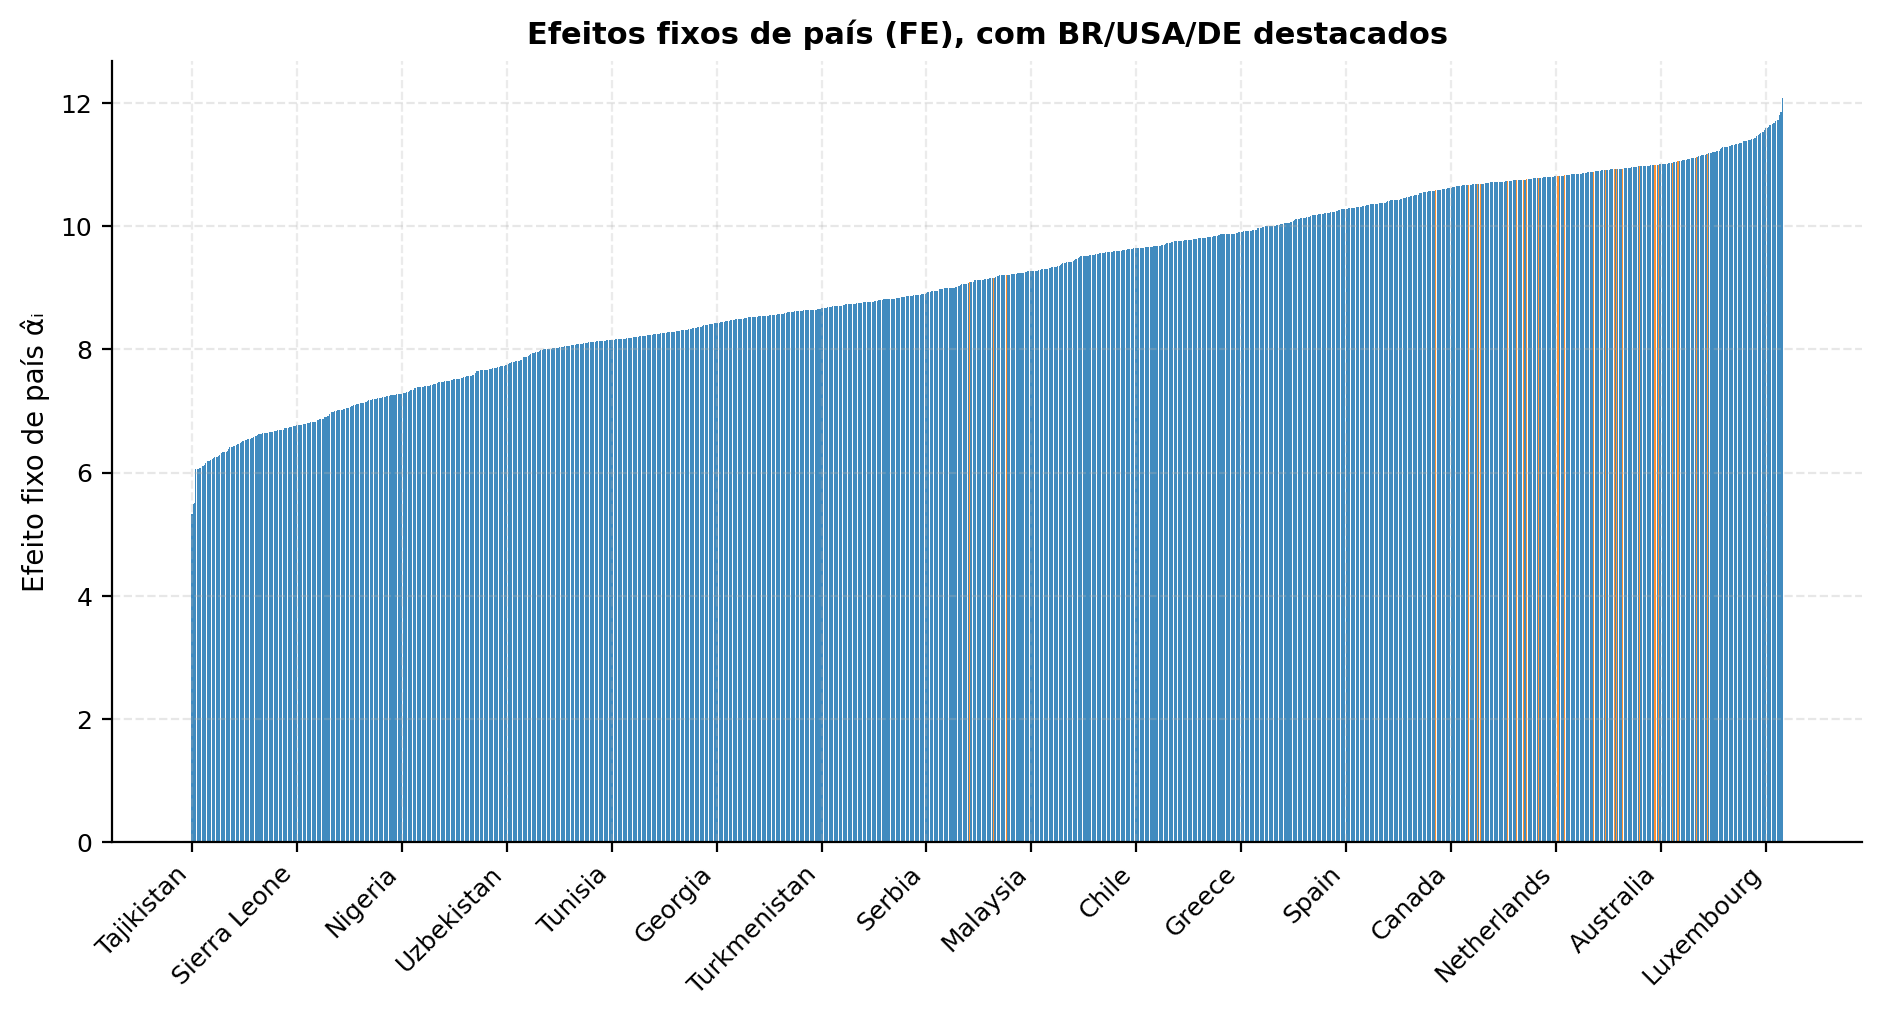
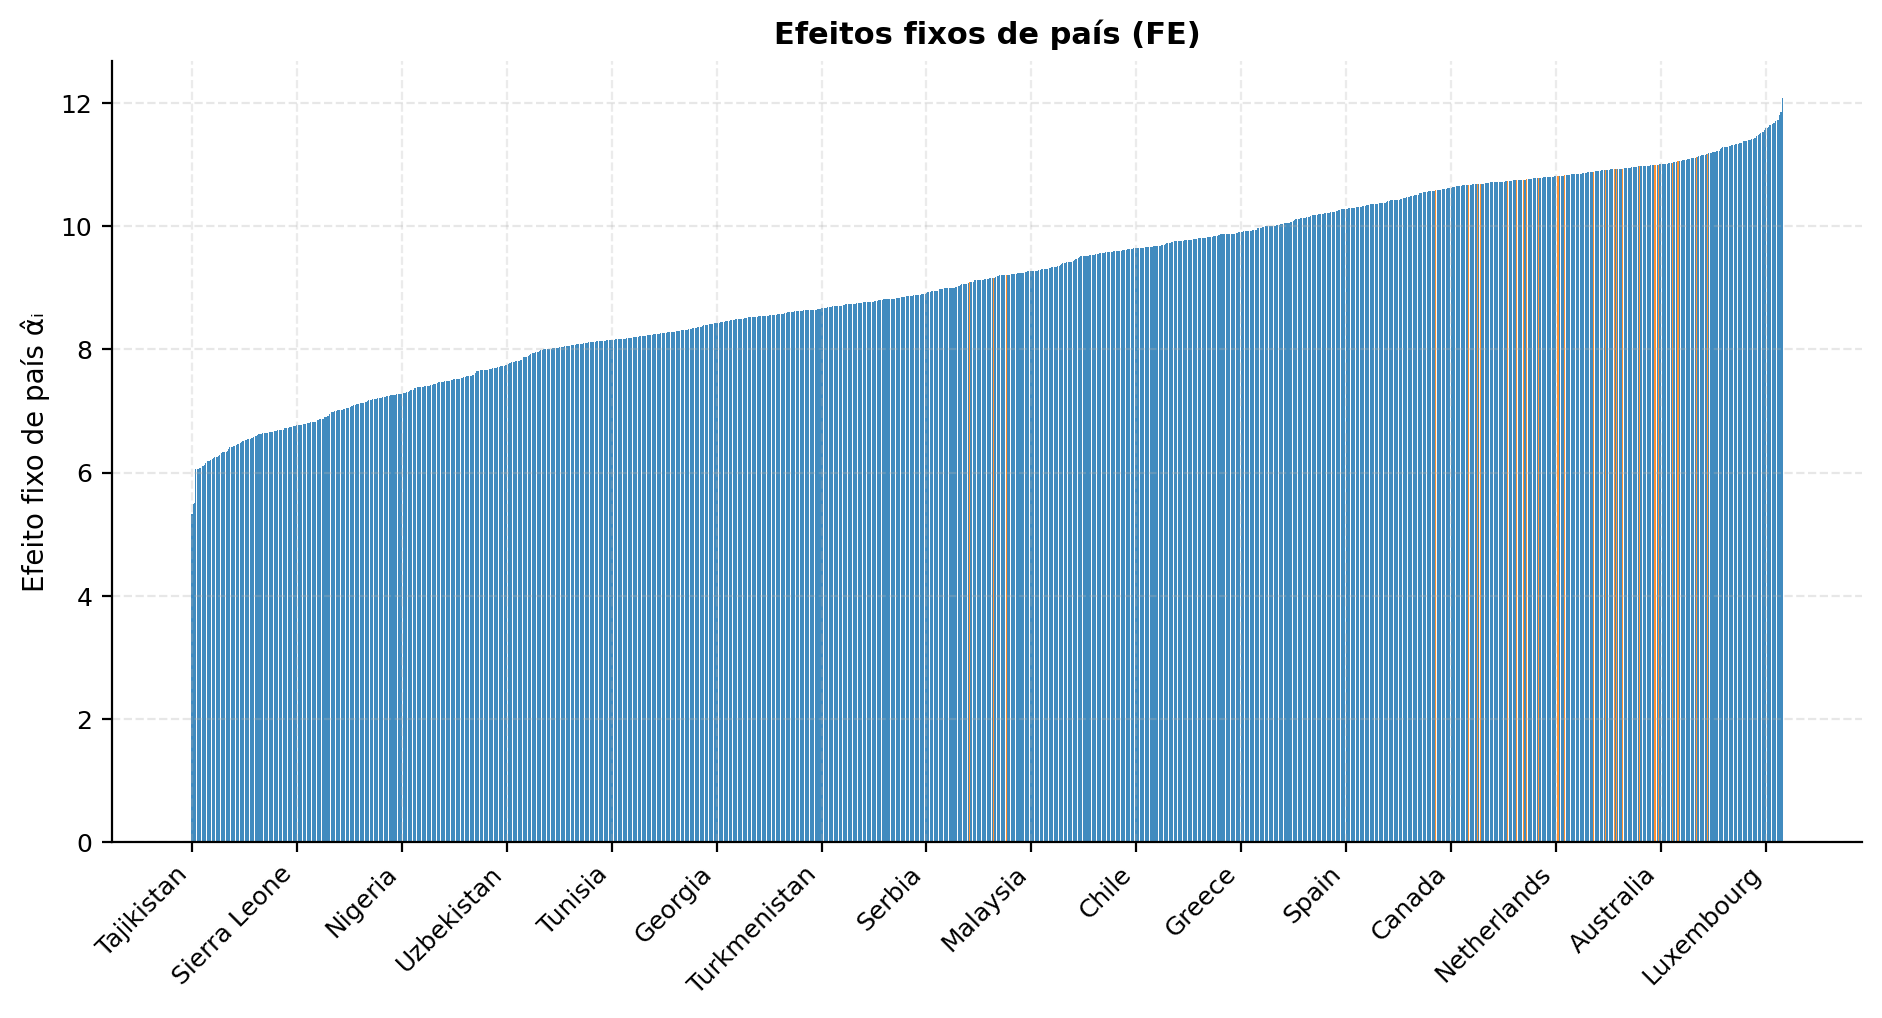
Last batch of enhancements and corrections

Changed region(s): [[0.2774, 0.0, 0.7705, 0.0609]]

diff --git a/CS/Aula2/Exercicios/lista1/lista_1_Andre_Katsurada.py b/CS/Aula2/Exercicios/lista1/lista_1_Andre_Katsurada.py
@@ -624,7 +624,7 @@ class Ex10GeracaoDados(Exercicio):
         RESET: sinaliza possível curvatura que o modelo linear não captou;
         Jarque–Bera: verifica se os resíduos lembram uma distribuição normal;
         VIF: mede se as variáveis explicativas "se parecem demais" (colinearidade);
-        Cook’s D / alavancagem: observa pontos que puxam muito o ajuste
+        Cook's D / alavancagem: observa pontos que puxam muito o ajuste
         """
 
         #Matriz de regressão
@@ -691,7 +691,7 @@ class Ex10GeracaoDados(Exercicio):
 
         #Influência: Cook D e leverage
         #Doc: https://www.statsmodels.org/dev/generated/statsmodels.stats.outliers_influence.OLSInfluence.html
-        #Conferir se faz sentido usar esse 'Cook’s distance and leverage values' aqui
+        #Conferir se faz sentido usar esse 'Cook's distance and leverage values' aqui
         #Quando usar? Quando não usar?
         infl = OLSInfluence(ols)
         cooks_d = infl.cooks_distance[0]
@@ -965,7 +965,7 @@ class Ex10GeracaoDados(Exercicio):
         Influência:
         eixo X = alavancagem (quão "isolado" o país está nas variáveis explicativas)
         eixo Y = resíduo padronizado (o quão distante ficou da linha)
-        tamanho do ponto = impacto no ajuste (Cook’s D)
+        tamanho do ponto = impacto no ajuste (Cook's D)
         Ou seja, ajuda a entender países que podem gerar distorções nos resultados
         """
         self._ensure_figdir()
@@ -982,19 +982,39 @@ class Ex10GeracaoDados(Exercicio):
         den = float(den) if (den is not None and np.isfinite(den) and den > 0) else 1.0
         size = (200 * (cooks / den).clip(lower=0.0).fillna(0.0)) + 10
 
-        fig = plt.figure(figsize=(6, 4))
+        fig = plt.figure(figsize=(8, 6))
         ax = plt.gca()
-        ax.scatter(lev, stud, s=size, alpha=alpha)
+        fig.subplots_adjust(bottom=0.28)
+        sc = ax.scatter(lev, stud, s=size, alpha=alpha)
+
+        #Adiciona linhas de referência para pontos potencialmente influentes
+        p = max(len(ols.params) - 1, 1)  # número de variáveis explicativas
+        lev_thr = 2 * (p + 1) / n  #limite
+        ax.axvline(lev_thr, color="red", ls="--", lw=1)
+        ax.axhline( 2, color="red", ls="--", lw=1)
+        ax.axhline(-2, color="red", ls="--", lw=1)
+
+        #Sombreia regiões de alto risco (alta leverage & resíduo grande)
+        x_lim = ax.get_xlim(); y_lim = ax.get_ylim()
+        ax.axvspan(lev_thr, x_lim[1], color="red", alpha=0.05)
+        ax.axhspan( 2, y_lim[1], color="red", alpha=0.05)
+        ax.axhspan(y_lim[0], -2,        color="red", alpha=0.05)
 
         #Identificar os mais influentes
         top_idx = cooks.nlargest(min(max_labels, n)).index
         for i in top_idx:
-            txt = self._country_label(df.loc[i])  # ISO preferível
+            txt = self._country_label(df.loc[i])  # ISO 
             ax.annotate(txt, (lev.loc[i], stud.loc[i]), xytext=(3, 3), textcoords="offset points", fontsize=7)
         ax.axhline(0, ls="--", alpha=0.5)
         ax.set_xlabel("Alavancagem (leverage)")
         ax.set_ylabel("Resíduo studentizado")
         ax.set_title(f"{label}: Observações influentes (Cook's D)")
+
+        #Legenda de escala dos círculos (Cook's D)
+        for s_ in (200, 600, 1000):
+            ax.scatter([], [], s=s_, color="grey", alpha=0.4,
+                       label=f"Cook's D ≈ {((s_-10)/200)*den:.2e}")
+        ax.legend(fontsize=7, frameon=False, scatterpoints=1, loc="best", title="Escala Cook's D")
 
         #Se ISO foi usado para rótulos, mostre Iso -> Nome
         if "iso" in df.columns:
@@ -1005,11 +1025,18 @@ class Ex10GeracaoDados(Exercicio):
                 ax.text(1.01, 0.98, mapping_text, transform=ax.transAxes, va="top", ha="left", fontsize=7,
                         bbox=dict(boxstyle="round", alpha=0.4))
 
-        #Legendas explicativas
-        plt.figtext(0.01, -0.05,
-                    "Circulos maiores indicam alto Cook's D (alto impacto no ajuste). "
-                    "Pontos com alta leverage e resíduo alto talvez indiquem questões de qualidade dos dados",
-                    ha="left", va="top", fontsize=8)
+        #Legendas explicativas detalhadas
+        plt.figtext(
+            0.01,
+            -0.1,
+            "Alavancagem: quão extremo o país é nas variáveis explicativas.\n"
+            "Resíduo studentizado: desvio padronizado em relação à reta de regressão.\n"
+            "Cook's D (tamanho do círculo): impacto do ponto sobre o ajuste.\n"
+            "Faixas vermelhas/sombreadas: zona de atenção (|resíduo| > 2 ou leverage alto).",
+            ha="left",
+            va="top",
+            fontsize=8,
+        )
         
         out = self._FIGDIR / f"{slug_prefix}_ols_influence.png"
         plt.tight_layout(); plt.savefig(out, dpi=200, bbox_inches="tight"); plt.close()
@@ -1205,7 +1232,7 @@ class Ex10GeracaoDados(Exercicio):
         ax.set_xticks(x[::step])
         ax.set_xticklabels(idx[::step], rotation=45, ha="right")
         ax.set_ylabel("Efeito fixo de país α̂ᵢ")
-        ax.set_title("Efeitos fixos de país (FE), com BR/USA/DE destacados")
+        ax.set_title("Efeitos fixos de país (FE)")
         ax.grid(True, axis="y", linestyle="--", alpha=0.3)
 
         out = self._FIGDIR / "country_fixed_effects_bars.png"
@@ -1596,11 +1623,9 @@ class Ex10GeracaoDados(Exercicio):
         print("Métrica: fração de unidades (países/agregados) c/ PIB2 − PIB1| / PIB1 > 10%")
         print(f"Unidades avaliadas: {len(merged)} | % com discrepância > 10%: {pct:.1f}%")
 
-        #7) Prints diversos 
+        #7) OBS finais 
         self._print_header("Observações")
-        print("Este ex10 não infere causalidade. Rodamos correlações, OLS (HC3), regressão quantílica e, com dados do WB em painel (30 anos), efeitos dos países e de ano com erros-padrão clusterizados por país.")
-        print("Para causalidade, seriam necessários delineamentos experimentais ou quase‑experimentais.")
-        print("De qualquer forma, fizemos uma análise extra, usando dados reais.")
+        print("Construímos um painel de 30 anos com dados do World Bank, procurando correlações entre GDP per capita e % de educação superior testando diversas técnicas de análise consultando as documentações, além de diversas tentativas e erros")
 
 #Main
 def main() -> None:
